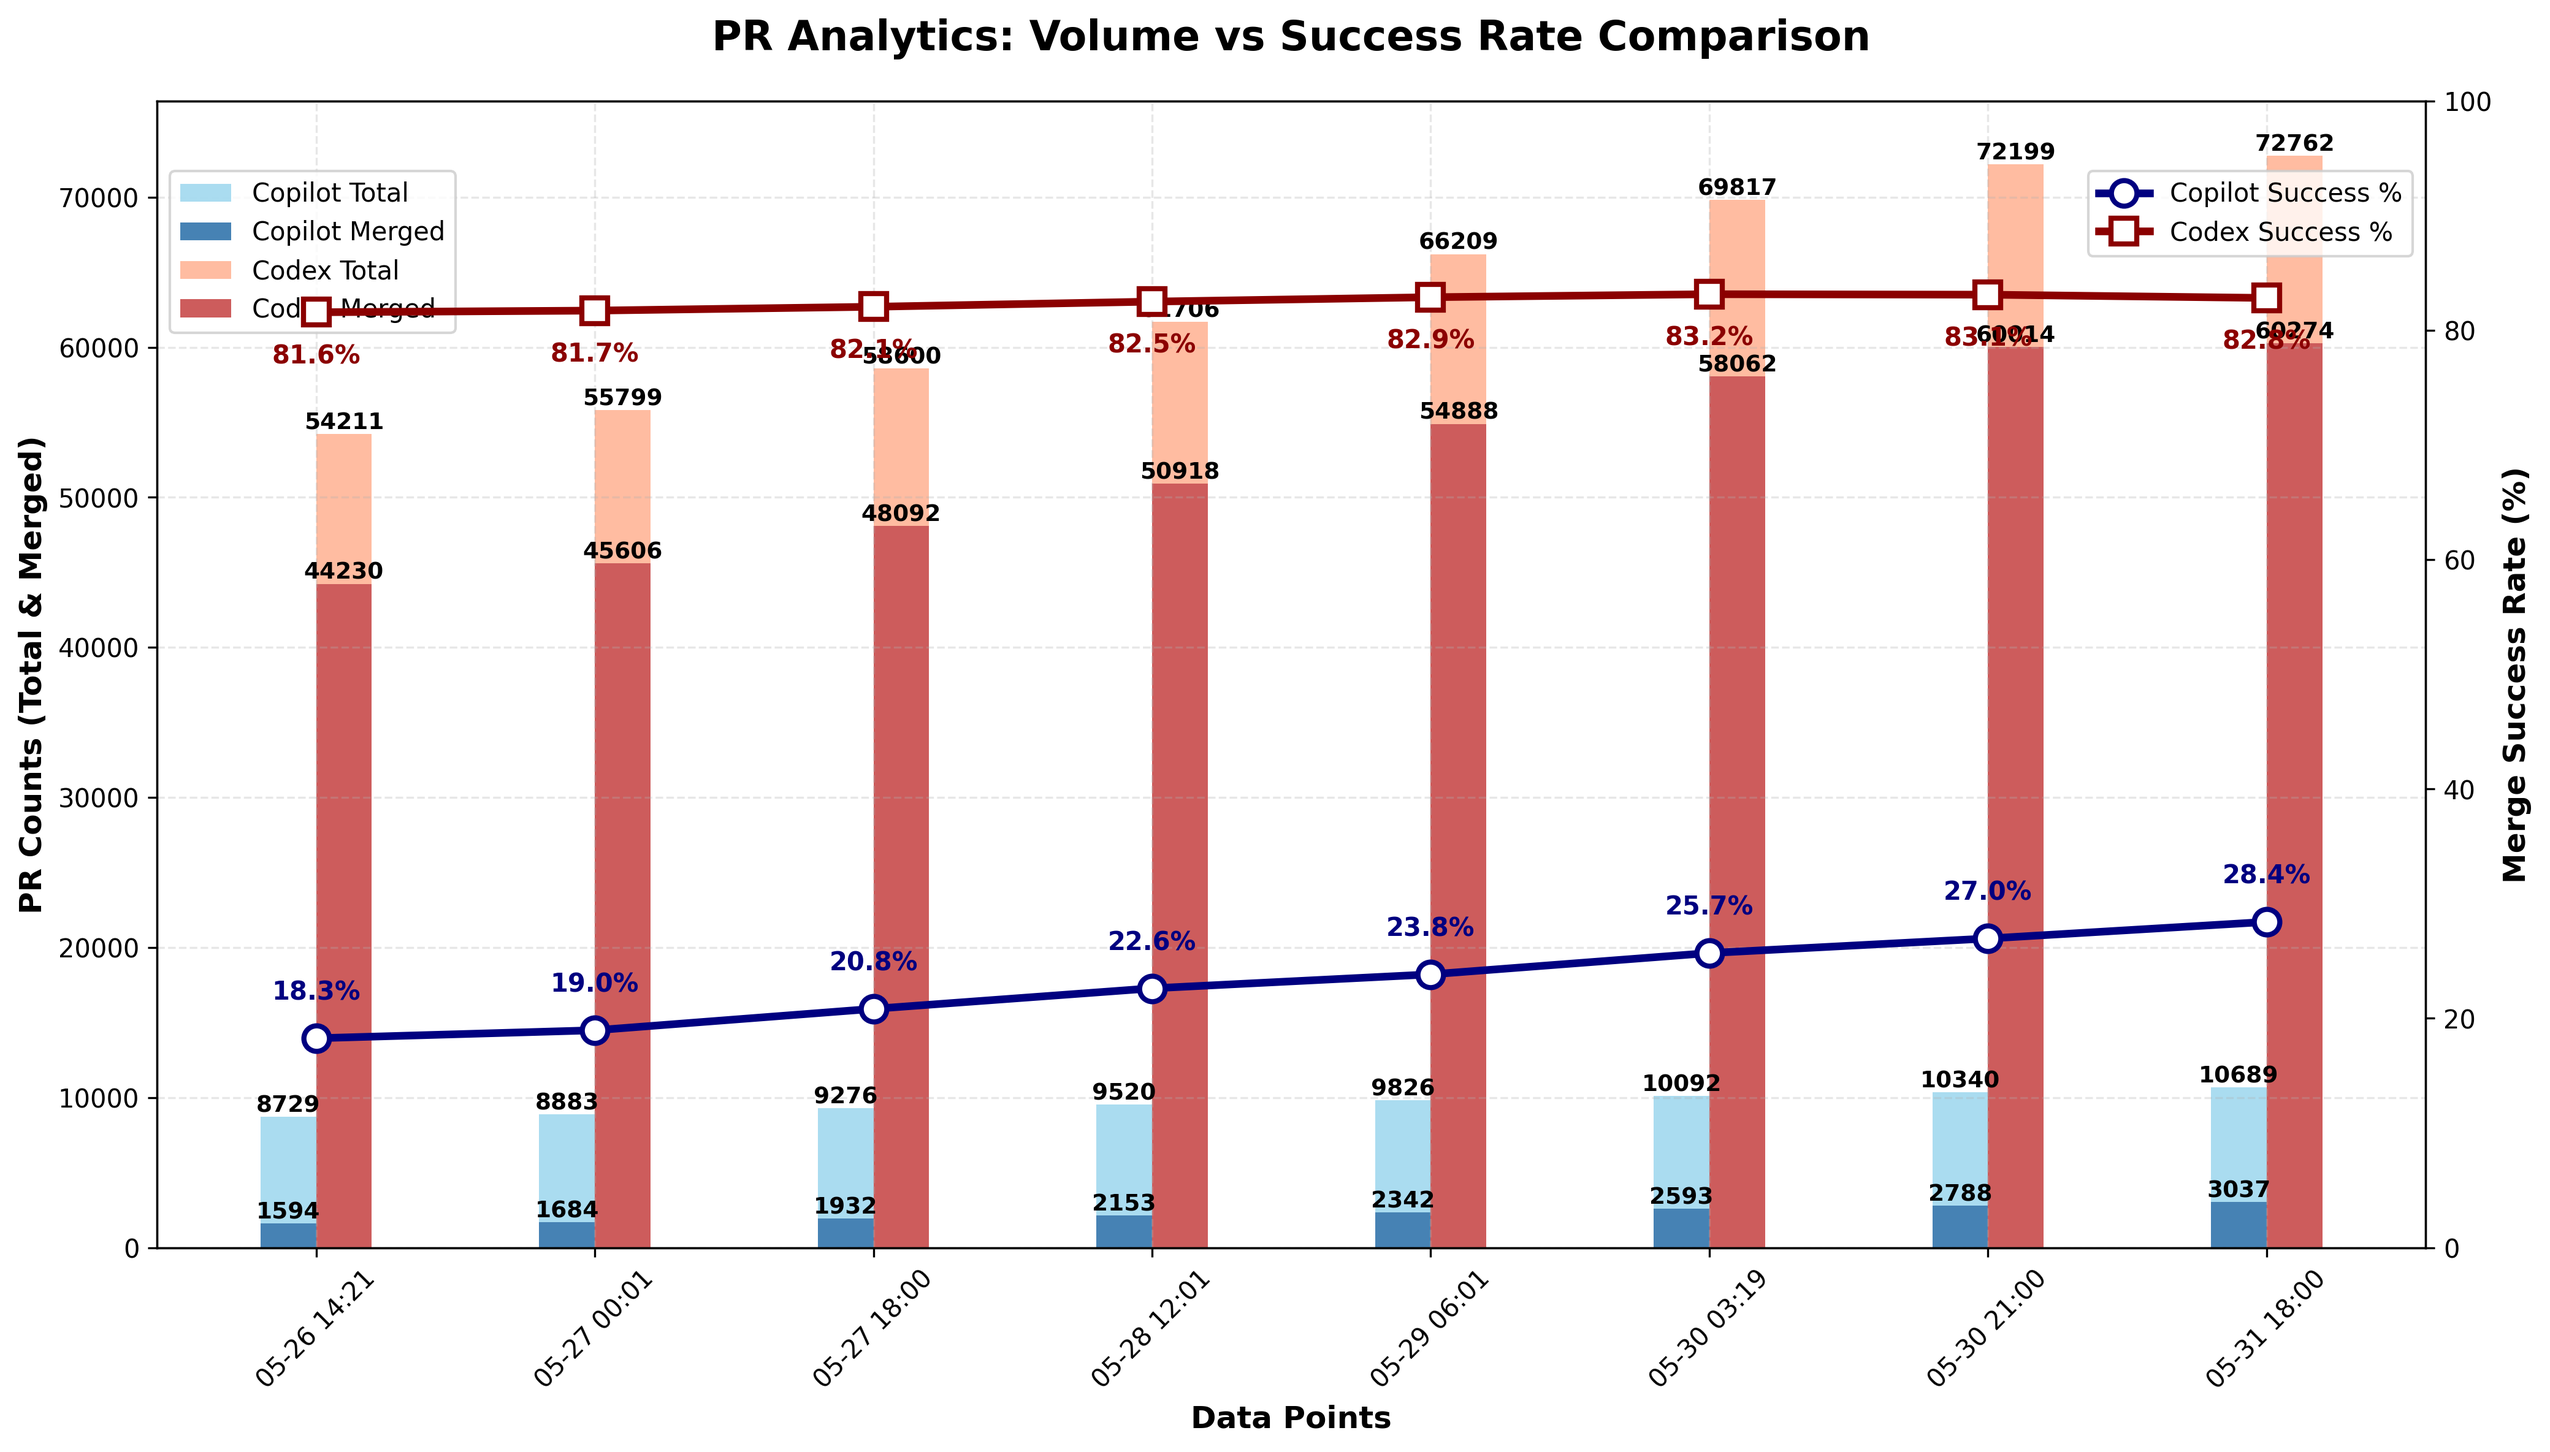
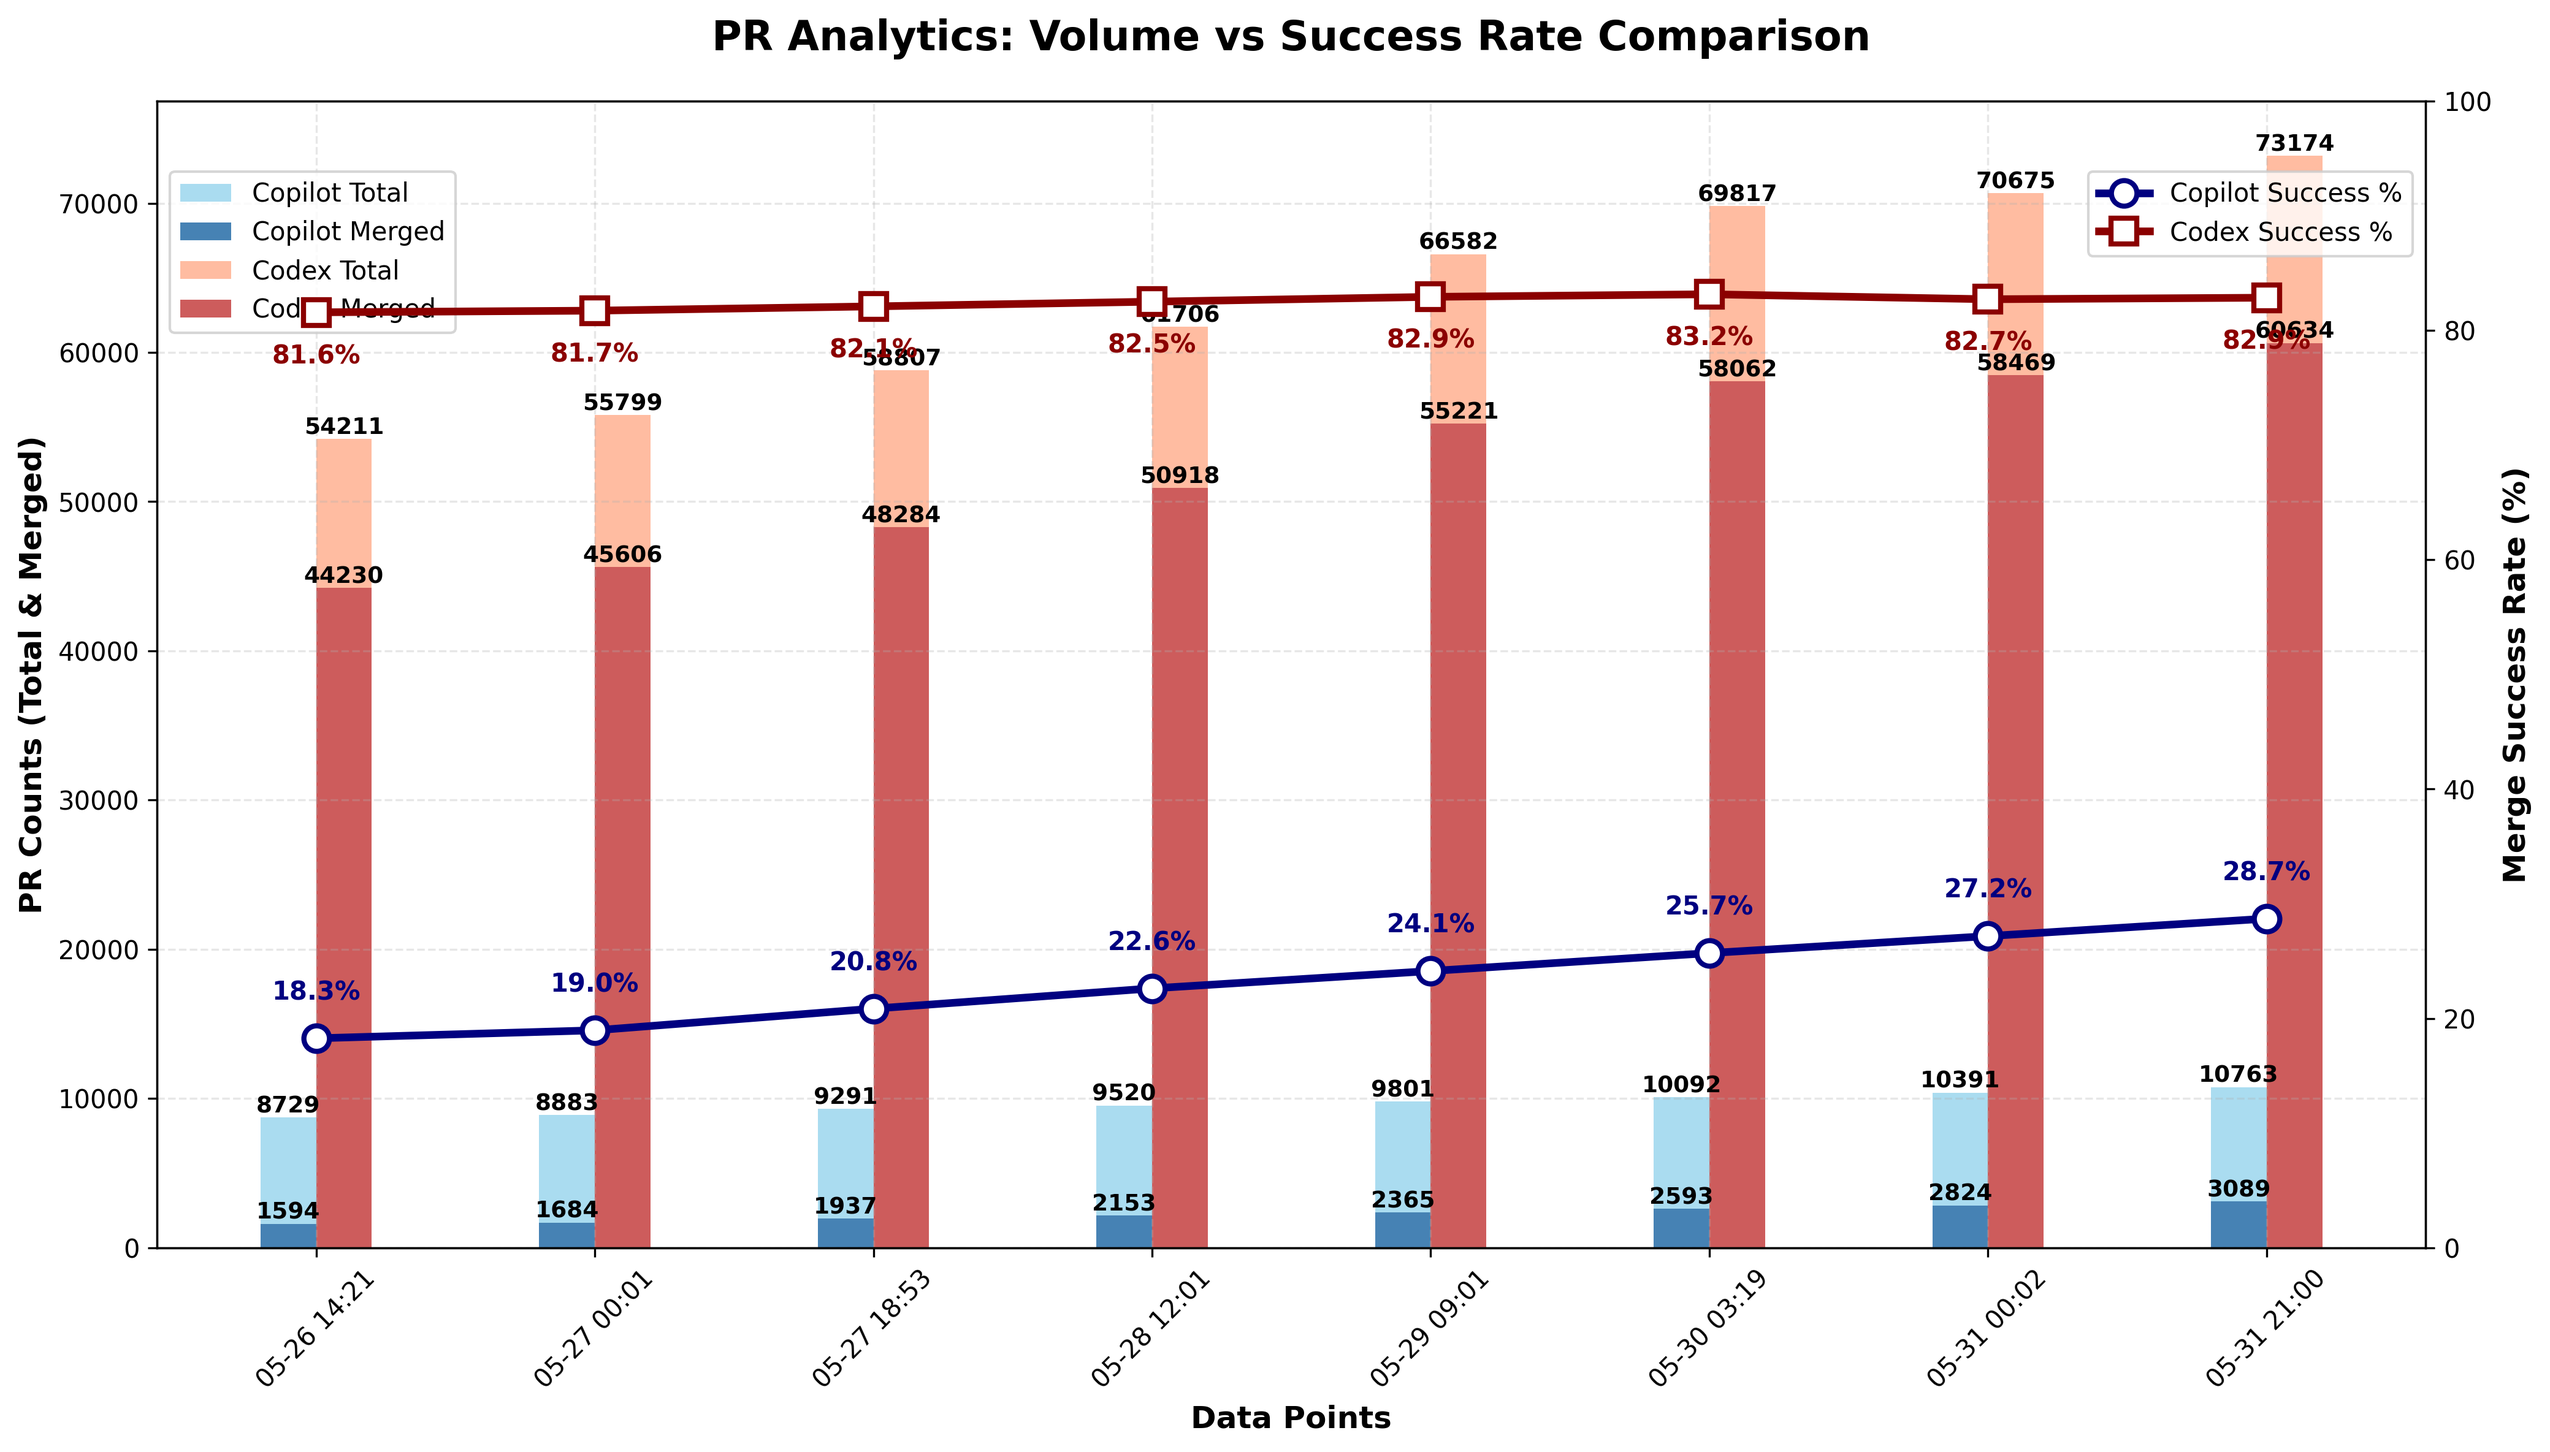
chore: update PR‑approval chart

diff --git a/docs/index.html b/docs/index.html
@@ -44,22 +44,22 @@
                 <tbody>
                     <tr>
                         <td>Copilot</td>
-                        <td>10,689</td>
-                        <td>3,037</td>
-                        <td>28.41%</td>
+                        <td>10,763</td>
+                        <td>3,089</td>
+                        <td>28.70%</td>
                     </tr>
                     <tr>
                         <td>Codex</td>
-                        <td>72,762</td>
-                        <td>60,274</td>
-                        <td>82.84%</td>
+                        <td>73,174</td>
+                        <td>60,634</td>
+                        <td>82.86%</td>
                     </tr>
                 </tbody>
             </table>
         </section>
 
         <footer>
-            <p>Last updated: <span id="last-updated">May 31, 2025 18:01 UTC</span></p>
+            <p>Last updated: <span id="last-updated">May 31, 2025 21:00 UTC</span></p>
             <p><a href="https://github.com/aavetis/ai-pr-watcher">View on GitHub</a></p>
         </footer>
     </div>

diff --git a/README.md b/README.md
@@ -19,5 +19,5 @@ Explore the GitHub search queries used:
 
 | Project | Total PRs | Merged PRs | Merge Rate |
 | ------- | --------- | ---------- | ---------- |
-| Copilot | 10,689 | 3,037 | 28.41% |
-| Codex   | 72,762 | 60,274 | 82.84% |
+| Copilot | 10,763 | 3,089 | 28.70% |
+| Codex   | 73,174 | 60,634 | 82.86% |
